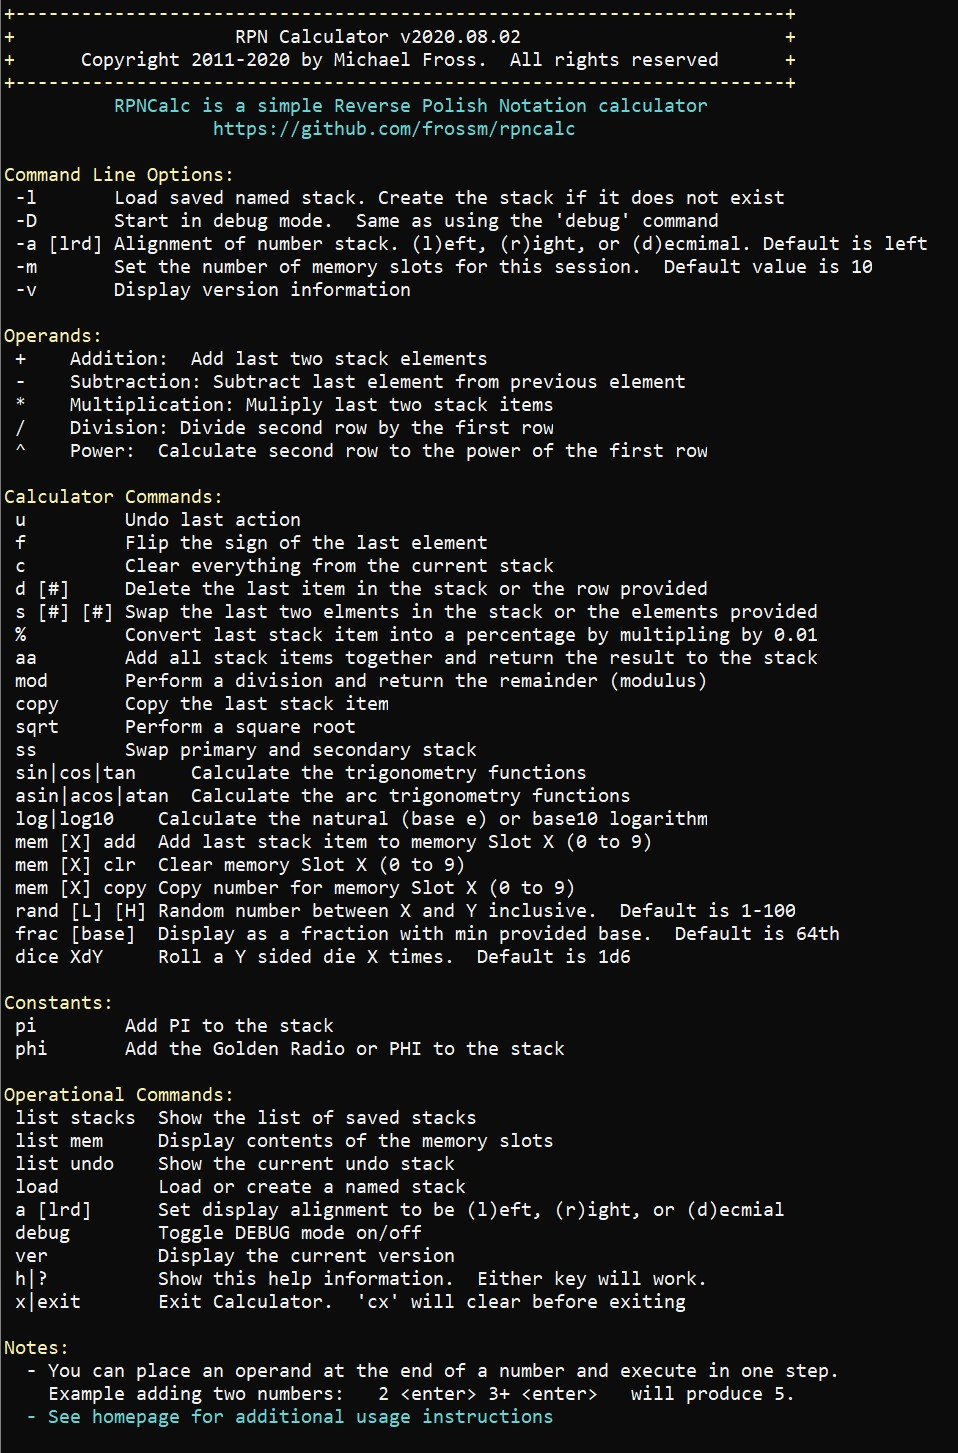
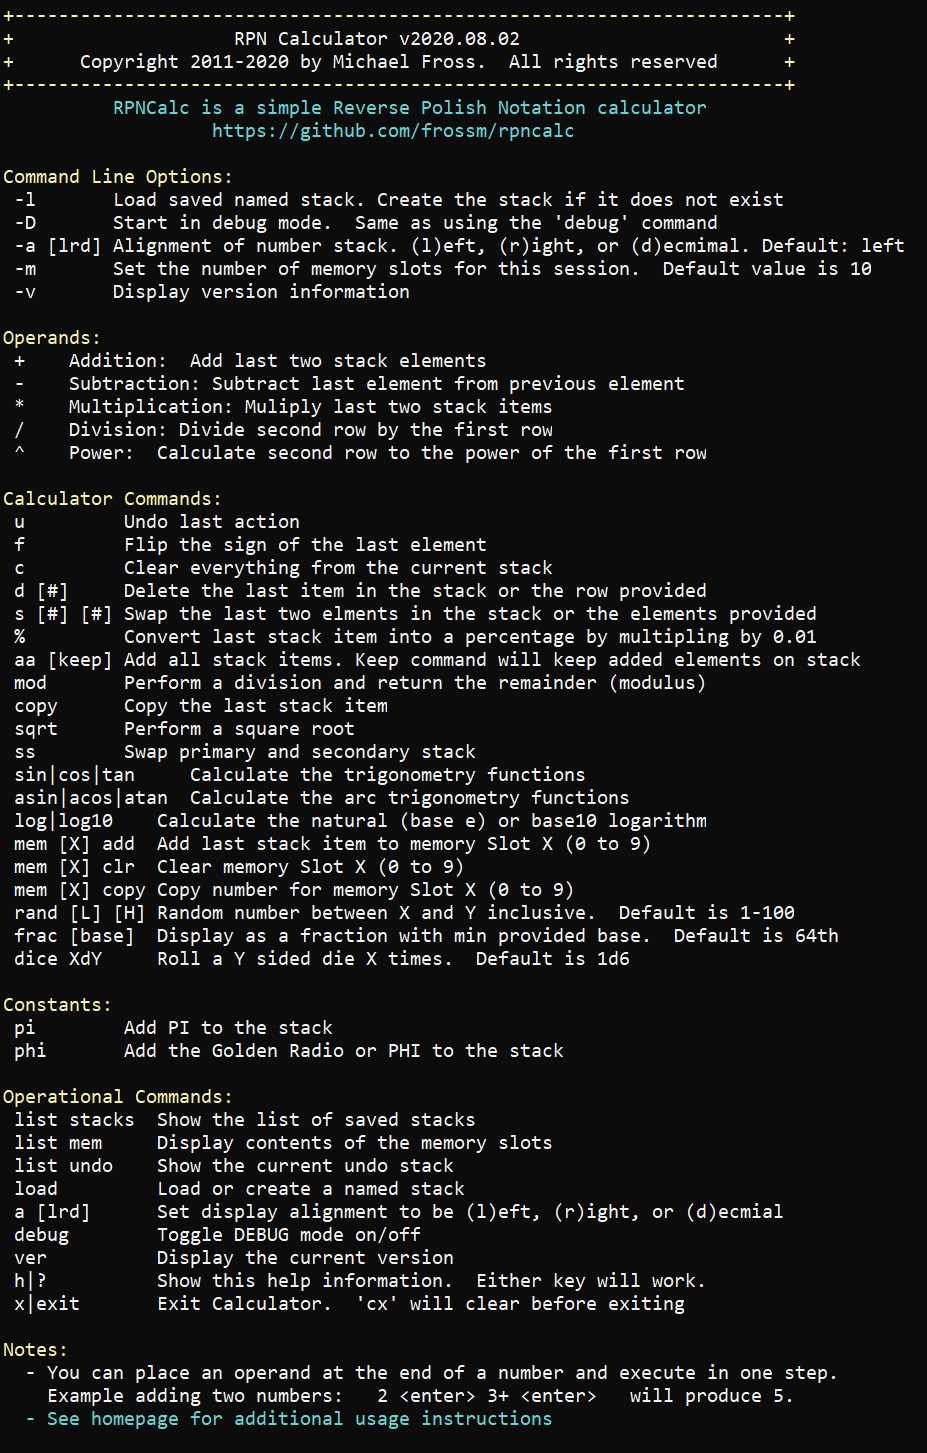
Added the "keep" parameter to the Add All (aa) command

diff --git a/src/main/java/org/fross/rpncalc/Help.java b/src/main/java/org/fross/rpncalc/Help.java
@@ -51,7 +51,7 @@ public class Help {
 		Output.printColorln(Ansi.Color.YELLOW, "\nCommand Line Options:");
 		Output.printColorln(Ansi.Color.WHITE, " -l       Load saved named stack. Create the stack if it does not exist");
 		Output.printColorln(Ansi.Color.WHITE, " -D       Start in debug mode.  Same as using the 'debug' command");
-		Output.printColorln(Ansi.Color.WHITE, " -a [lrd] Alignment of number stack. (l)eft, (r)ight, or (d)ecmimal. Default is left");
+		Output.printColorln(Ansi.Color.WHITE, " -a [lrd] Alignment of number stack. (l)eft, (r)ight, or (d)ecmimal. Default: left");
 		Output.printColorln(Ansi.Color.WHITE, " -m       Set the number of memory slots for this session.  Default value is 10");
 		Output.printColorln(Ansi.Color.WHITE, " -v       Display version information");
 
@@ -69,7 +69,7 @@ public class Help {
 		Output.printColorln(Ansi.Color.WHITE, " d [#]     Delete the last item in the stack or the row provided");
 		Output.printColorln(Ansi.Color.WHITE, " s [#] [#] Swap the last two elments in the stack or the elements provided");
 		Output.printColorln(Ansi.Color.WHITE, " %         Convert last stack item into a percentage by multipling by 0.01");
-		Output.printColorln(Ansi.Color.WHITE, " aa        Add all stack items together and return the result to the stack");
+		Output.printColorln(Ansi.Color.WHITE, " aa [keep] Add all stack items. Keep command will keep added elements on stack");
 		Output.printColorln(Ansi.Color.WHITE, " mod       Perform a division and return the remainder (modulus)");
 		Output.printColorln(Ansi.Color.WHITE, " copy      Copy the last stack item");
 		Output.printColorln(Ansi.Color.WHITE, " sqrt      Perform a square root");

diff --git a/src/main/java/org/fross/rpncalc/StackOps.java b/src/main/java/org/fross/rpncalc/StackOps.java
@@ -777,22 +777,42 @@ public class StackOps {
 
 	/**
 	 * cmdAddAll(): Add everything on the stack together and return the result to the stack
+	 * 
+	 * @param arg
 	 */
 	@SuppressWarnings("unchecked")
-	public static void cmdAddAll() {
+	public static void cmdAddAll(String arg) {
 		// Save to undo stack
 		Main.undoStack.push((Stack<Double>) Main.calcStack.clone());
 
-		// Counter to hold total
-		Double aaTotal = 0.0;
+		// Determine if we should keep or clear the stack upon adding
+		boolean keepFlag = false;
+		try {
+			// Just check if the provided command starts with 'k'.  That should be enough
+			if (arg.toLowerCase().charAt(0) == 'k') {
+				keepFlag = true;
+			}
+		} catch (StringIndexOutOfBoundsException ex) {
+			keepFlag = false;
+		}
 
-		// Loop through the stack items adding them until there is nothing left
-		while (Main.calcStack.empty() == false) {
-			aaTotal += Main.calcStack.pop();
+		// Counter to hold the accumulating total
+		Double totalCounter = 0.0;
+
+		// If the 'keep' flag was sent, get the stack items instead of using pop
+		if (keepFlag == true) {
+			for (int i = 0; i < Main.calcStack.size(); i++) {
+				totalCounter += Main.calcStack.get(i);
+			}
+		} else {
+			// Loop through the stack items popping them off until there is nothing left
+			while (Main.calcStack.empty() == false) {
+				totalCounter += Main.calcStack.pop();
+			}
 		}
 
 		// Add result back to the stack
-		Main.calcStack.push(aaTotal);
+		Main.calcStack.push(totalCounter);
 	}
 
 } // END CLASS

diff --git a/src/main/java/org/fross/rpncalc/Main.java b/src/main/java/org/fross/rpncalc/Main.java
@@ -441,7 +441,7 @@ public class Main {
 
 			// AddAll
 			case "aa":
-				StackOps.cmdAddAll();
+				StackOps.cmdAddAll(cmdInputParam);
 				break;
 				
 			// Modulus

diff --git a/README.md b/README.md
@@ -88,7 +88,7 @@ The following is the list of operands supported by RPNCalc:
 |s [#] [#]|Swap the position of the top two stack items (line 1 & 2) with `s`.  You can swap any two line items in your stack by providing the two line numbers `s # #`|
 |copy| Adds a copy of the top stack item (line 1) back on the stack.  The result is you'll have two of the same items on top of the stack|
 |% |Convert the top stack item (line 1) into it's percentage number.  This will simply multiply the last value by 0.01.  For example, if you want to take 50.123% of a number, you could just enter in `50.123 [ENTER] % [ENTER] *`|
-|aa|Add all stack items together and return the result to the stack|
+|aa [keep]|Add all stack items together and return the result to the stack.  If the optional `keep` command is sent, the elements added will be retained and the total will be added to the top of the stack.  The entire `keep` command is not necessary, anything that starts with `k` will work|
 |mod|Modulus is the remainder after a division.  This command will perform a division of the top two stack items using the `/` operand and return the remainder only back on the stack|
 |sqrt|Perform a square root of the top item in the stack|
 |sin, cos, tan|Calculate the trigonometry function|
